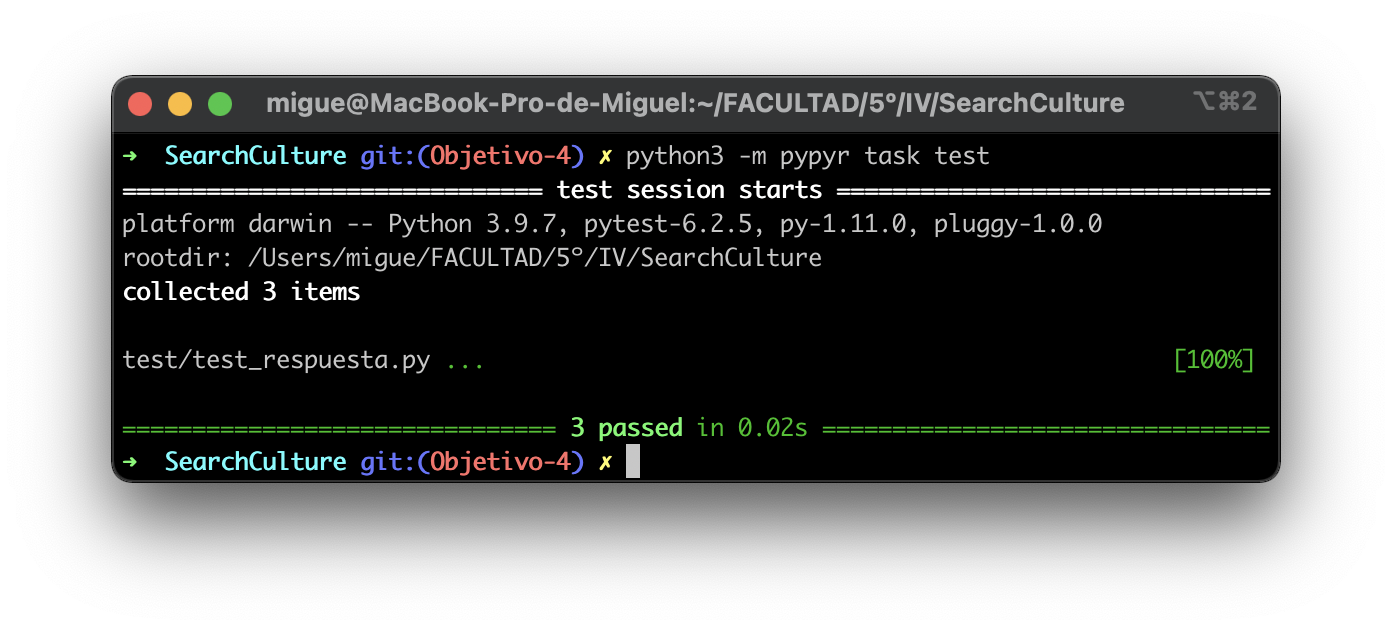
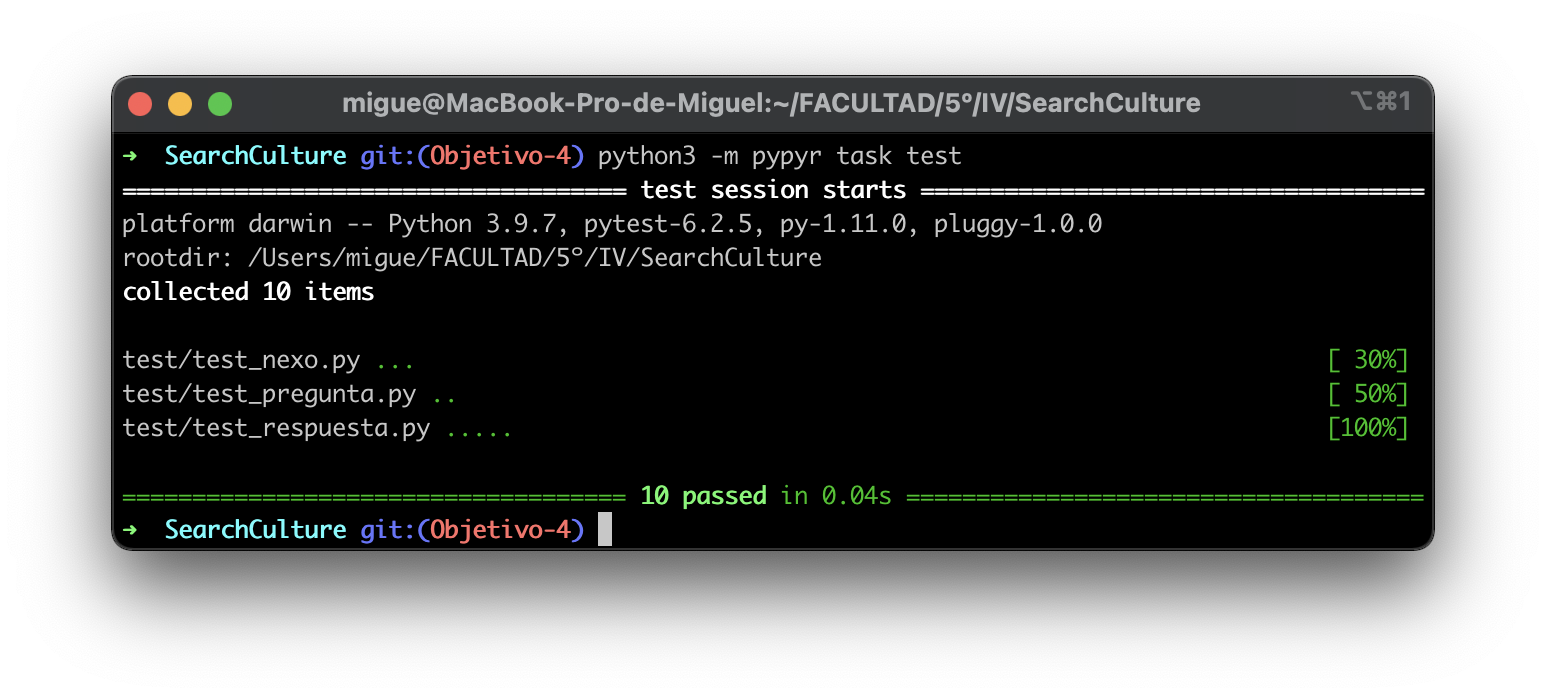
Actualiza documentación tras #29

Changed region(s): [[0.0618, 0.0905, 0.9267, 0.8444]]

diff --git a/docs/test.md b/docs/test.md
@@ -85,7 +85,7 @@ Comentar que de no ser por la sensación de abandono que tiene Grappa, la opció
 
 FIRST es el acrónimo de las cinco características que deben tener nuestros tests unitarios para ser considerados tests con calidad:
 
-- [x] Fast (rápido): Esta característica se cumple pues los test se pasan en 0.02s 
+- [x] Fast (rápido): Esta característica se cumple pues los test se pasan en 0.04s 
   ![Prueba ejecución test](/docs/imgs/ejecucion_test.png)
 - [x] Independent (independiente): Se cumple porque para los 3 test se crea un objeto Respuesta nuevo e independiente que no depende del anterior.
 
